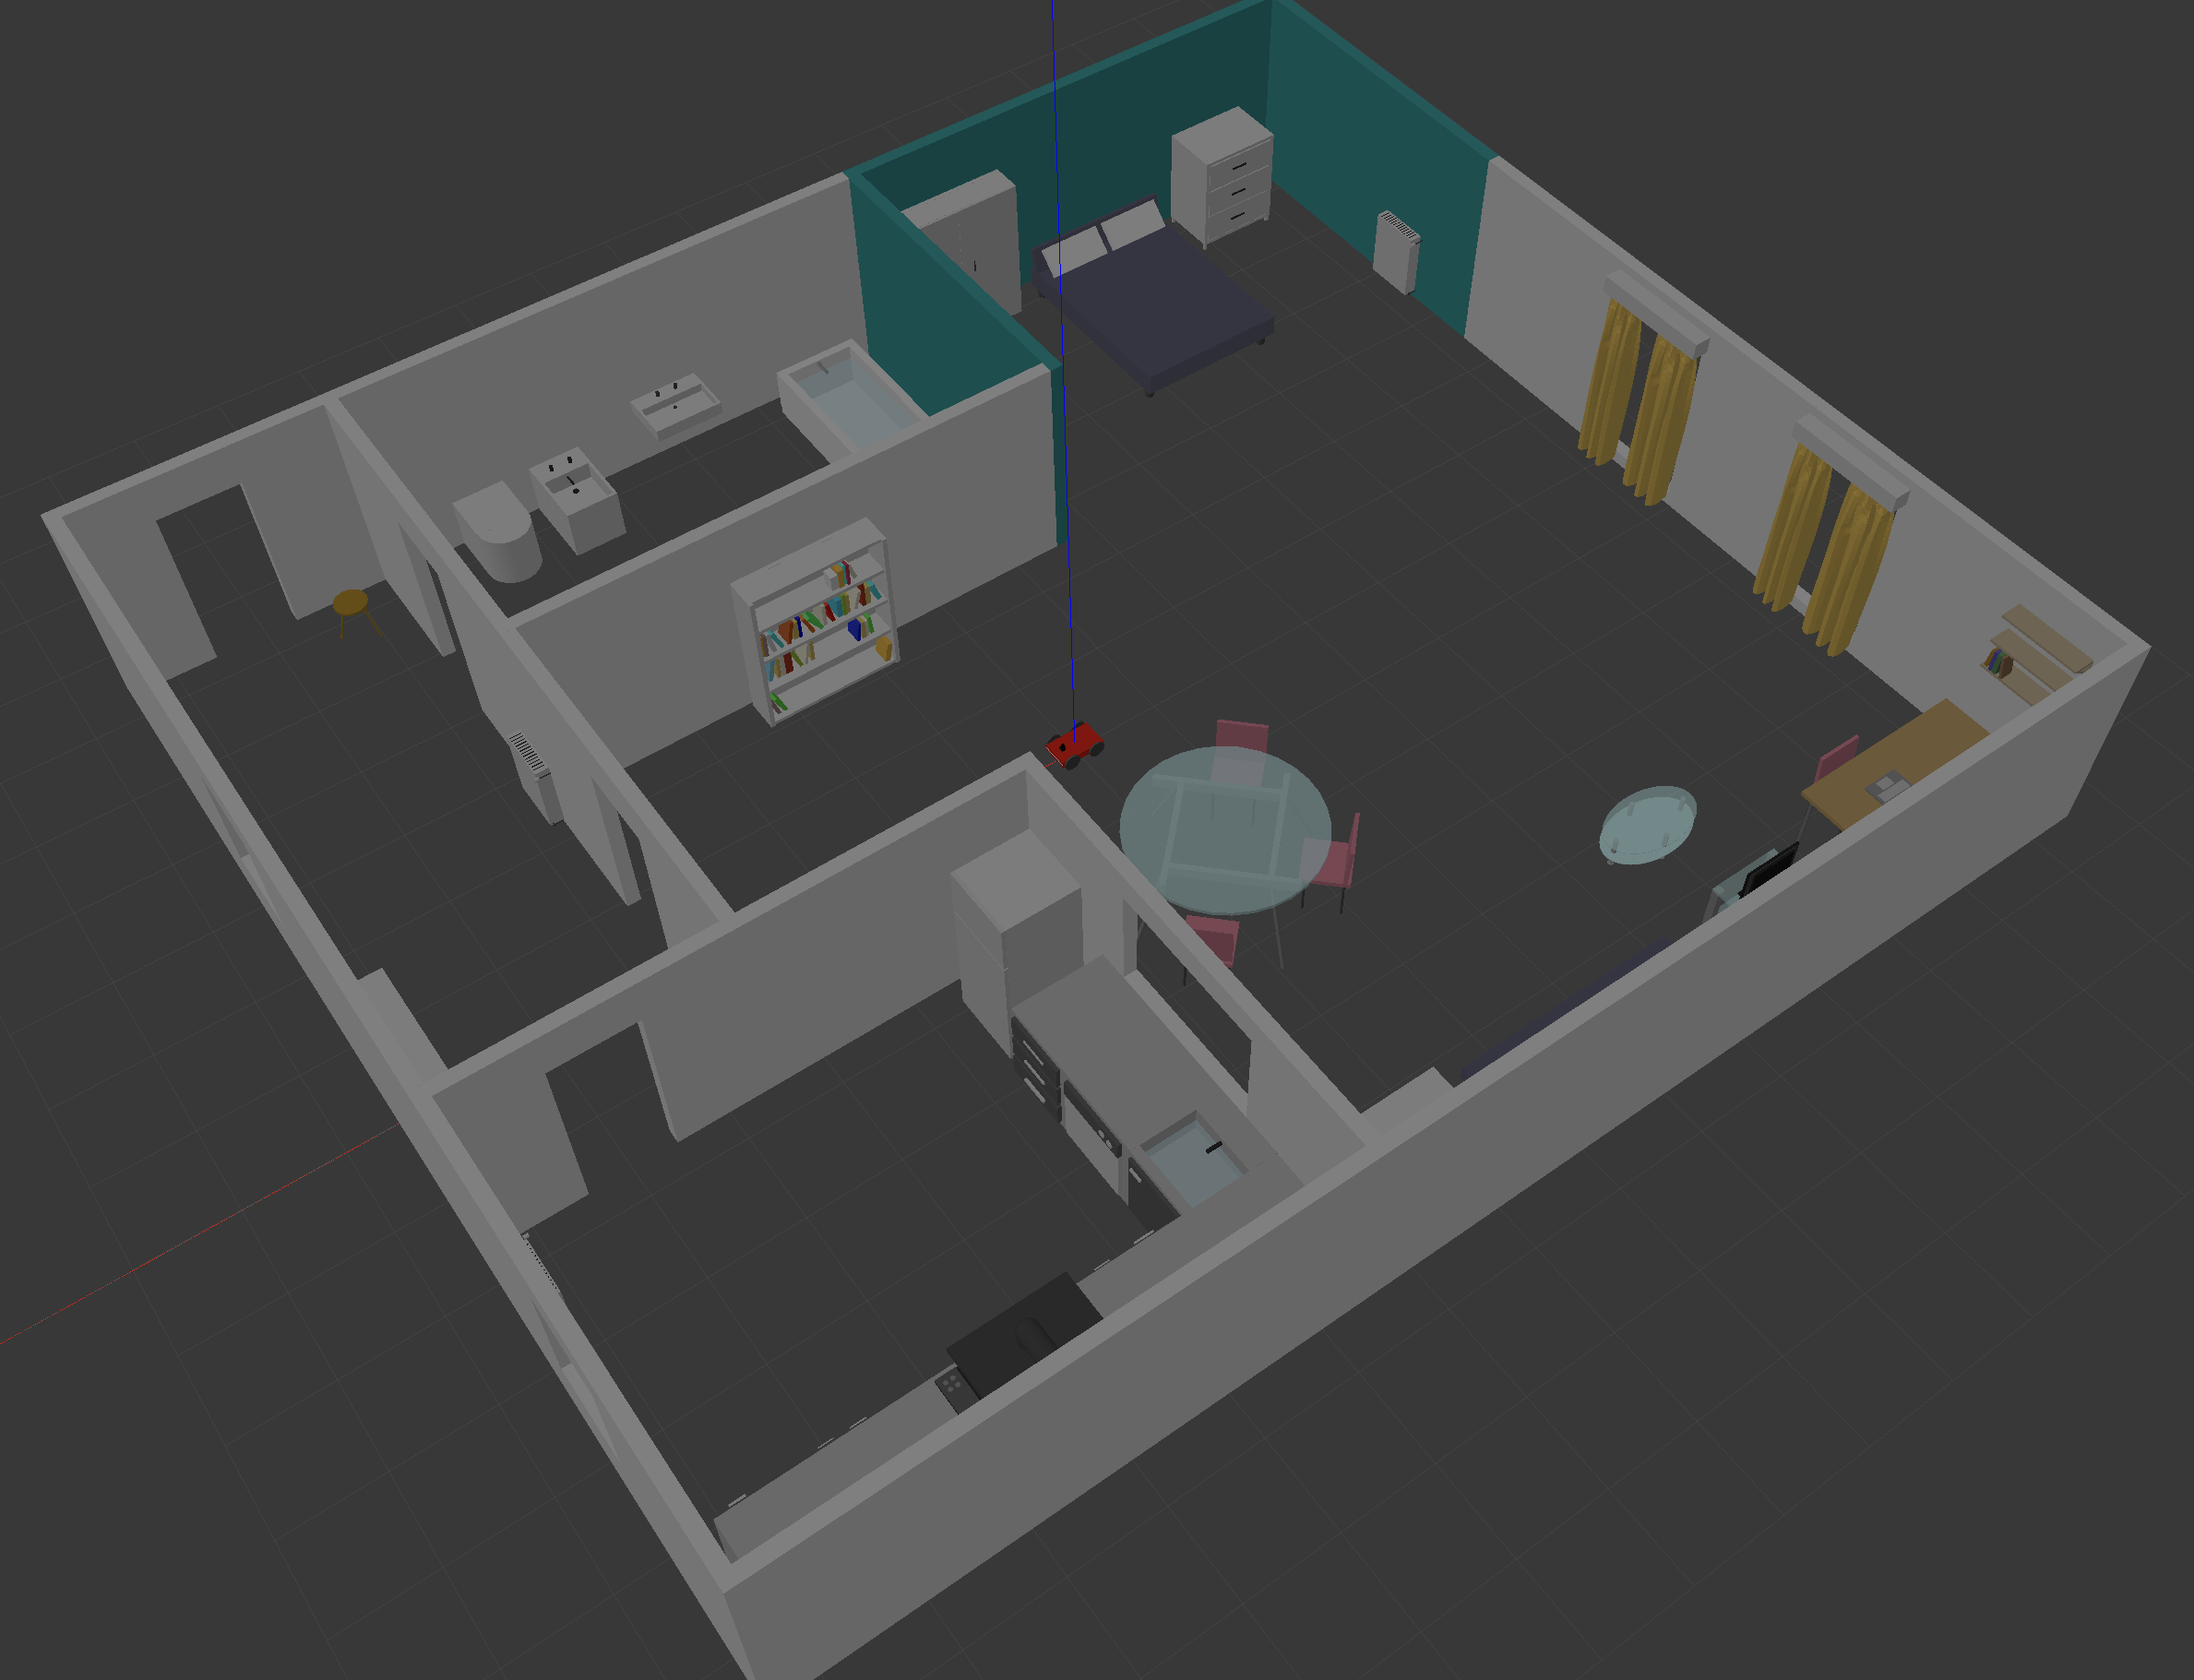
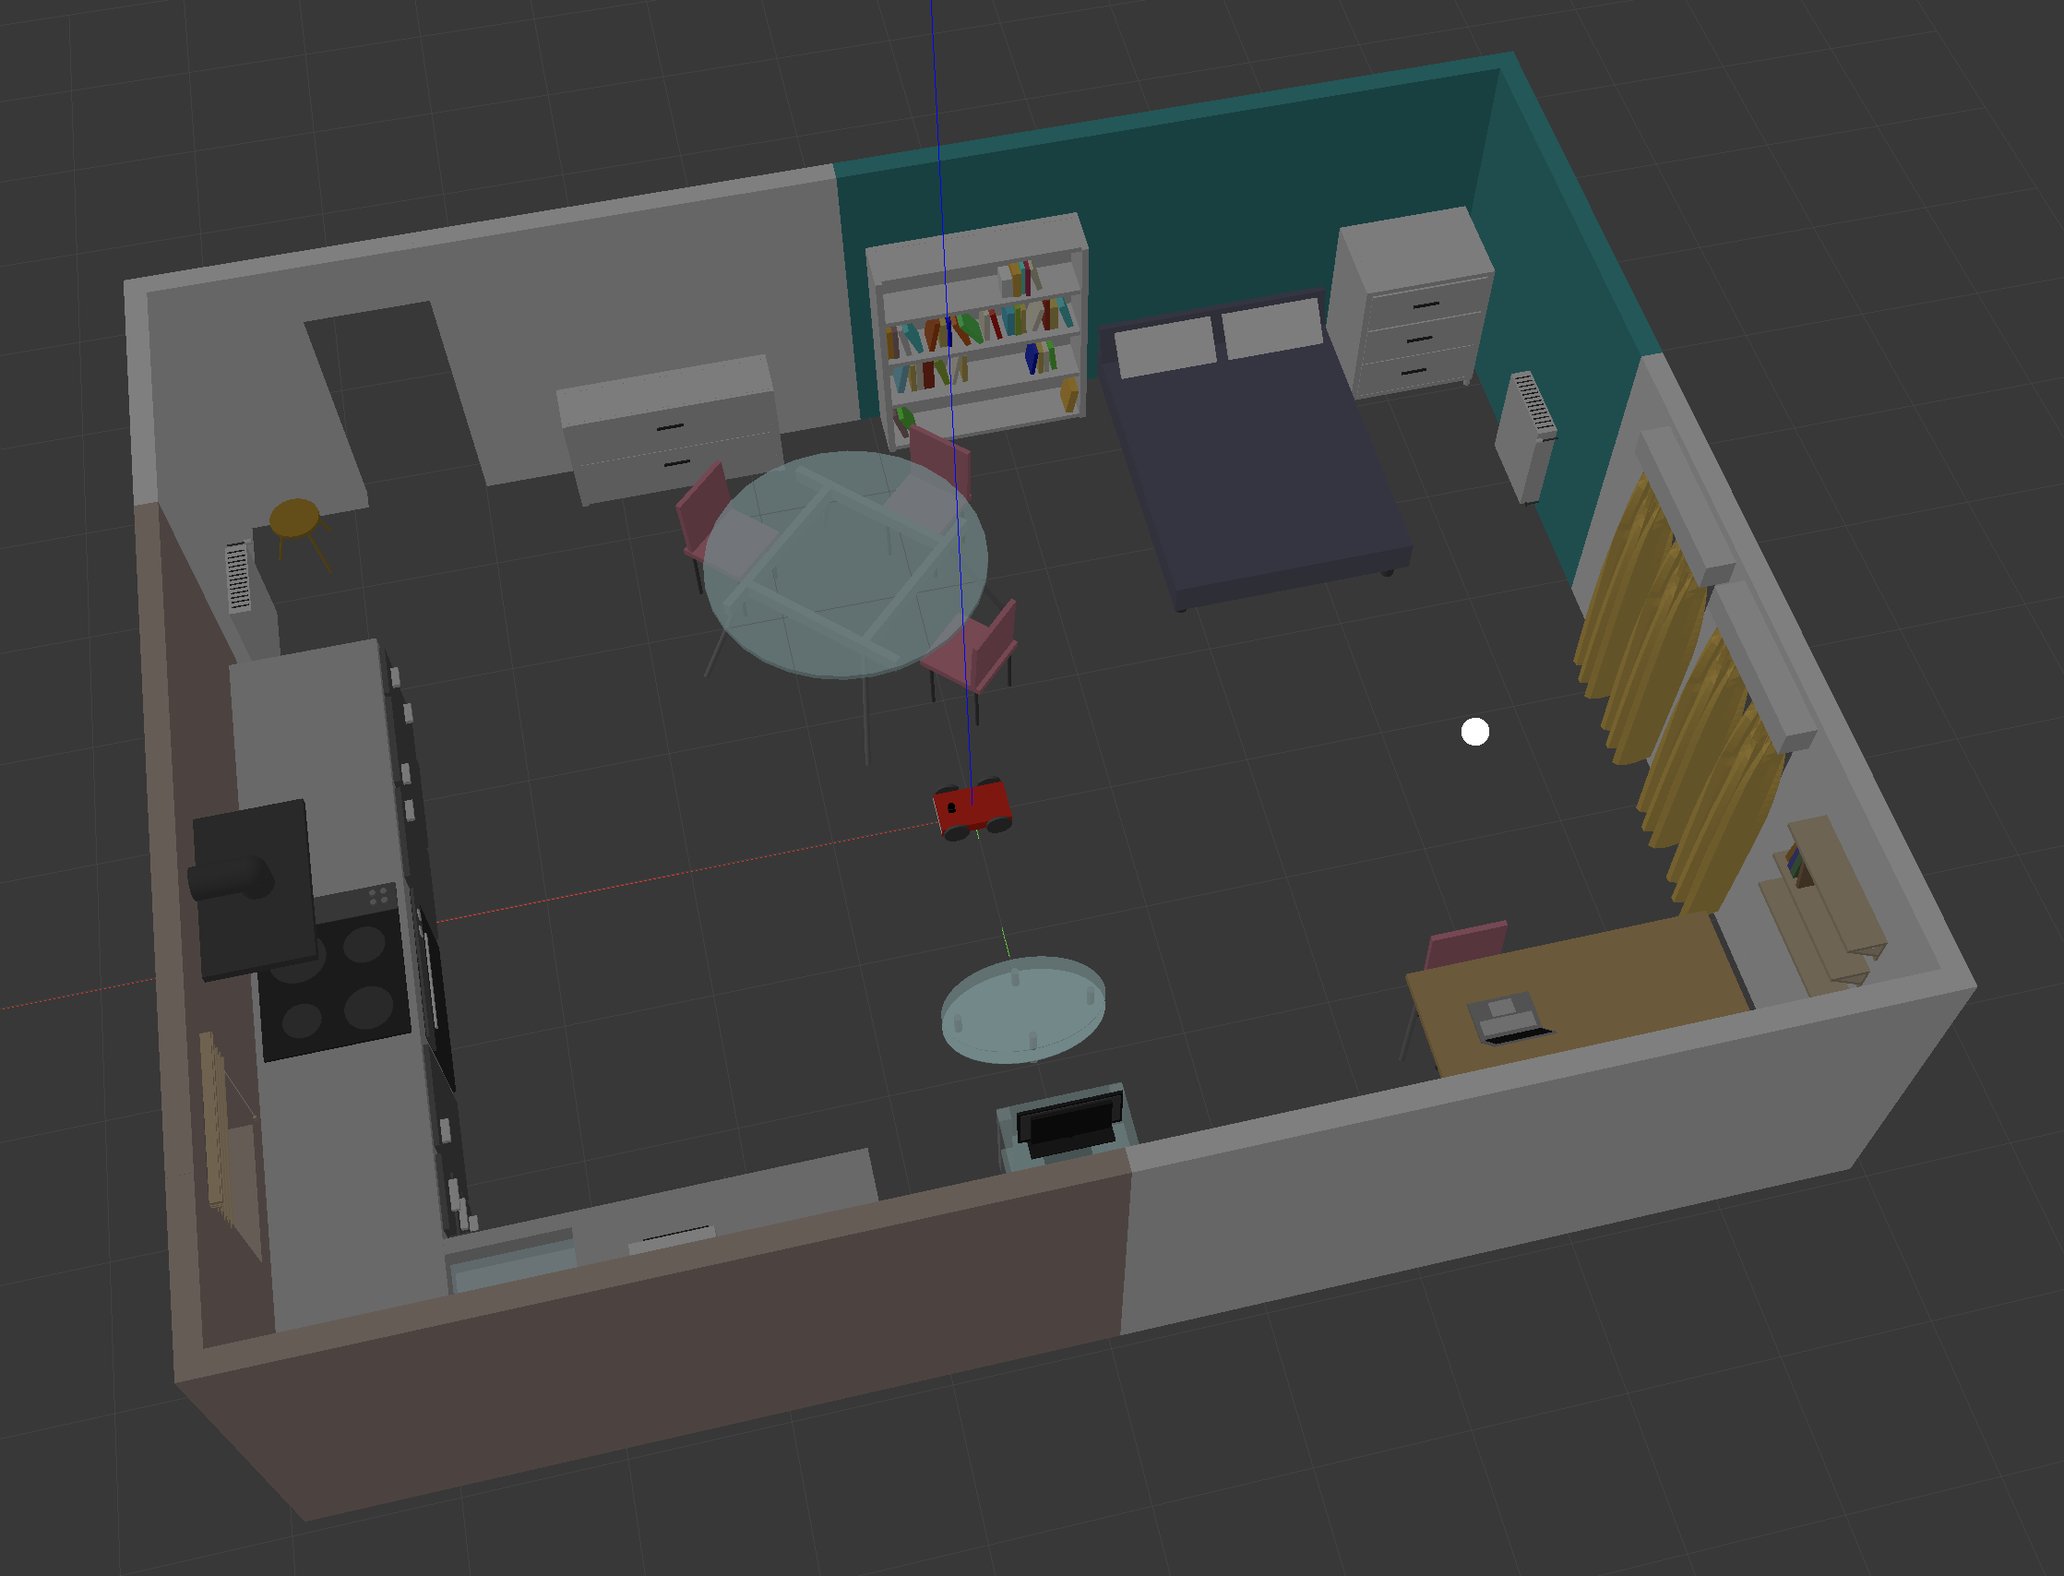
docs: Rework overview section in p4 README

diff --git a/projects/p4/p4-map-my-world.md b/projects/p4/p4-map-my-world.md
@@ -4,6 +4,9 @@
 
 ## Overview
 
+__Figure 1: The Redesigned World__
+![](./img/img2.png)
+
 ## Project Structure
 
 __Figure 2: Directory Structure Tree__
@@ -71,11 +74,5 @@ roslaunch my_robot teleop.launch
 ```bash
 roslaunch my_robot mapping.launch
 ```
-
-__Figure 1: The Original World__
-![](./img/img2.png)
-
-__Figure 2: The Redesigned World__
-![](./img/img3.png)
 
 [Home](../../README.md) | Previous: [Where Am I?](../p3/p3-where-am-i.md)

diff --git a/README.md b/README.md
@@ -146,3 +146,5 @@ __[Preliminary Configurations](projects/p4/p4-preliminary-config.md)__
 Real-time creation of the 2D occupancy grid (with RViz, top-right corner) and 3D point-cloud map (with RTAB-Map, center) appear in the figure below. The loop closure detection process is visible on the LHS of the screen, top. The robot is manouvered via keyboard teleop (bottom-left).
 
 ![](./projects/p4/img/mov1.gif)
+
+## Project 5: Home Service Robot
